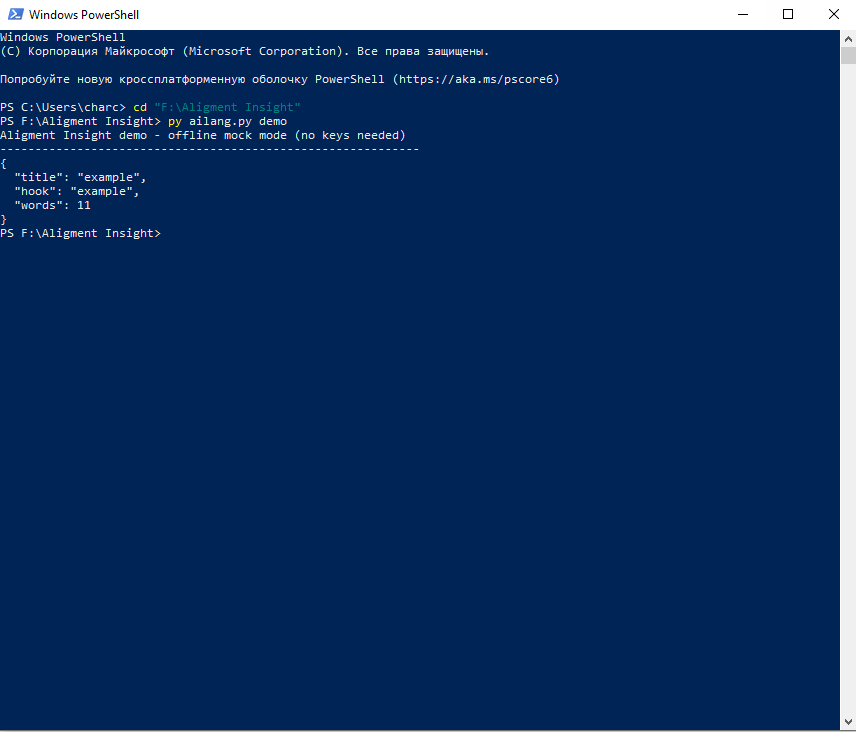
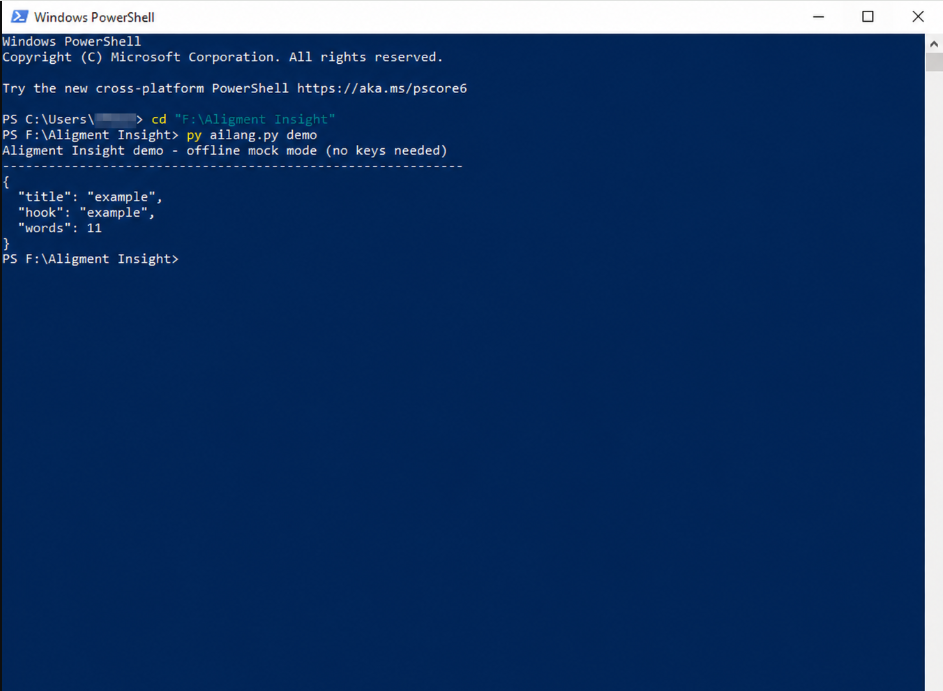
docs: a cleaner screenshot, and demo is not an edition

Changed region(s): [[0.0, 0.0, 1.0, 0.3951], [0.0, 0.9725, 1.0, 1.0]]

diff --git a/README.md b/README.md
@@ -11,7 +11,13 @@ is a wage, `judge` is a supervisor, gates are quality control and `payroll`
 is the wage bill. The package and the command are called `ailang`; the
 language is Aligment Insight. One file (`ailang.py`), one dependency
 (`lark`), and a fully offline mock mode by default: no keys, no network,
-no spend.![A run of `ailang demo` — an agent organization, offline](docs/screenshot-demo.png)
+no spend.
+
+![A run of `ailang demo` — an agent organization, offline](docs/screenshot-demo.png)
+
+`demo` names a demonstration, not an edition: the one file is the whole
+compiler, shell, auditor and test suite — and `--live` is the same
+language against real models.
 
 The Family today is the language and its household: the AI-lang shell, the
 compiler with its AIL diagnostics and program images, the journal that
